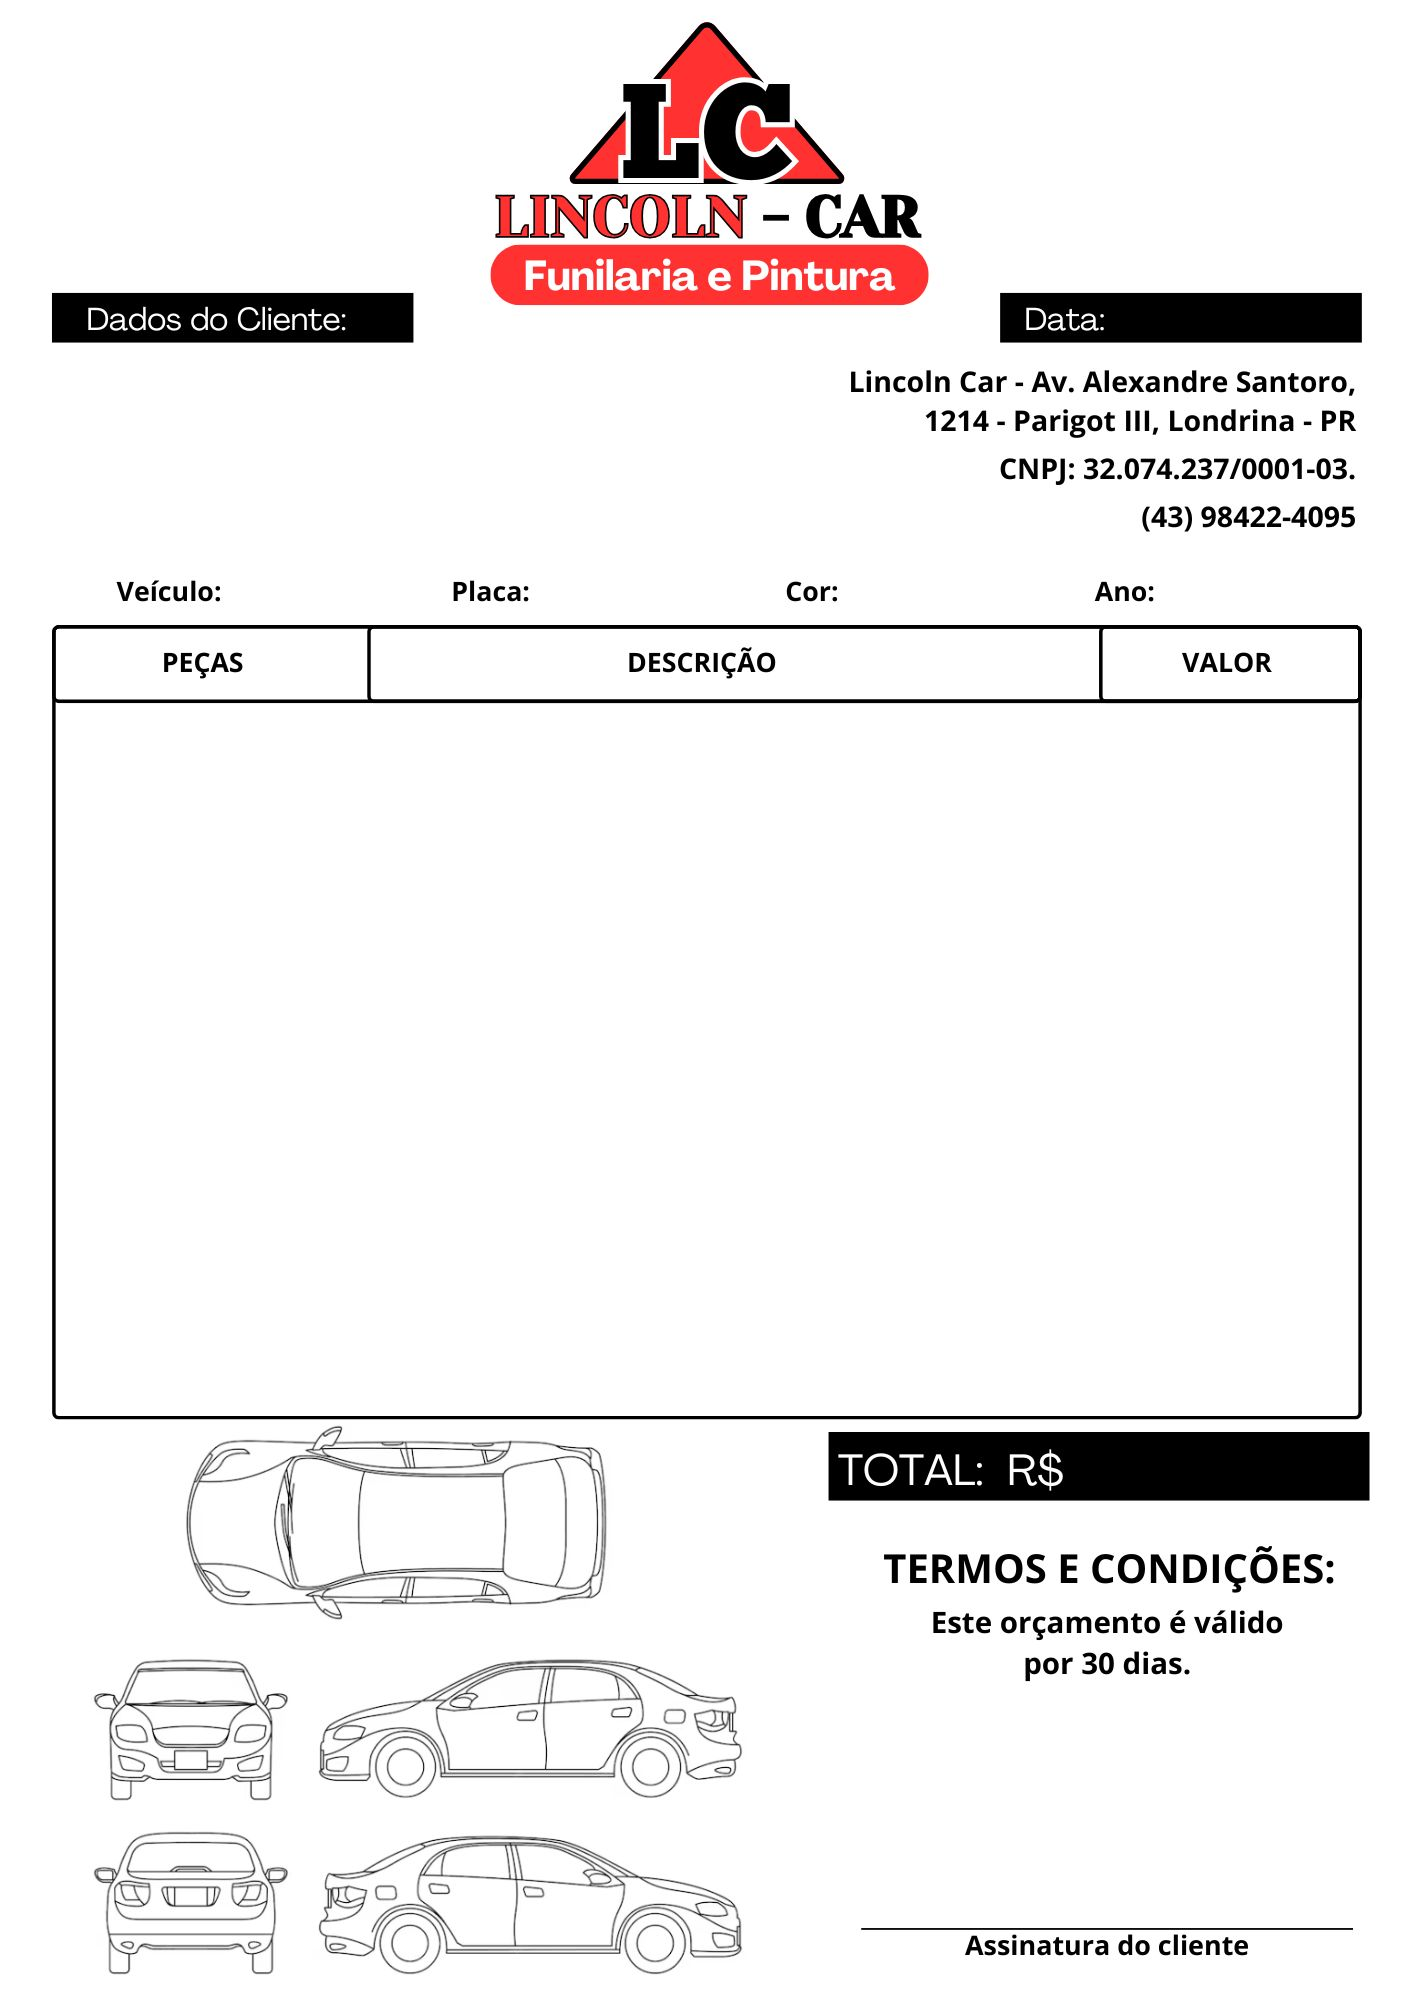
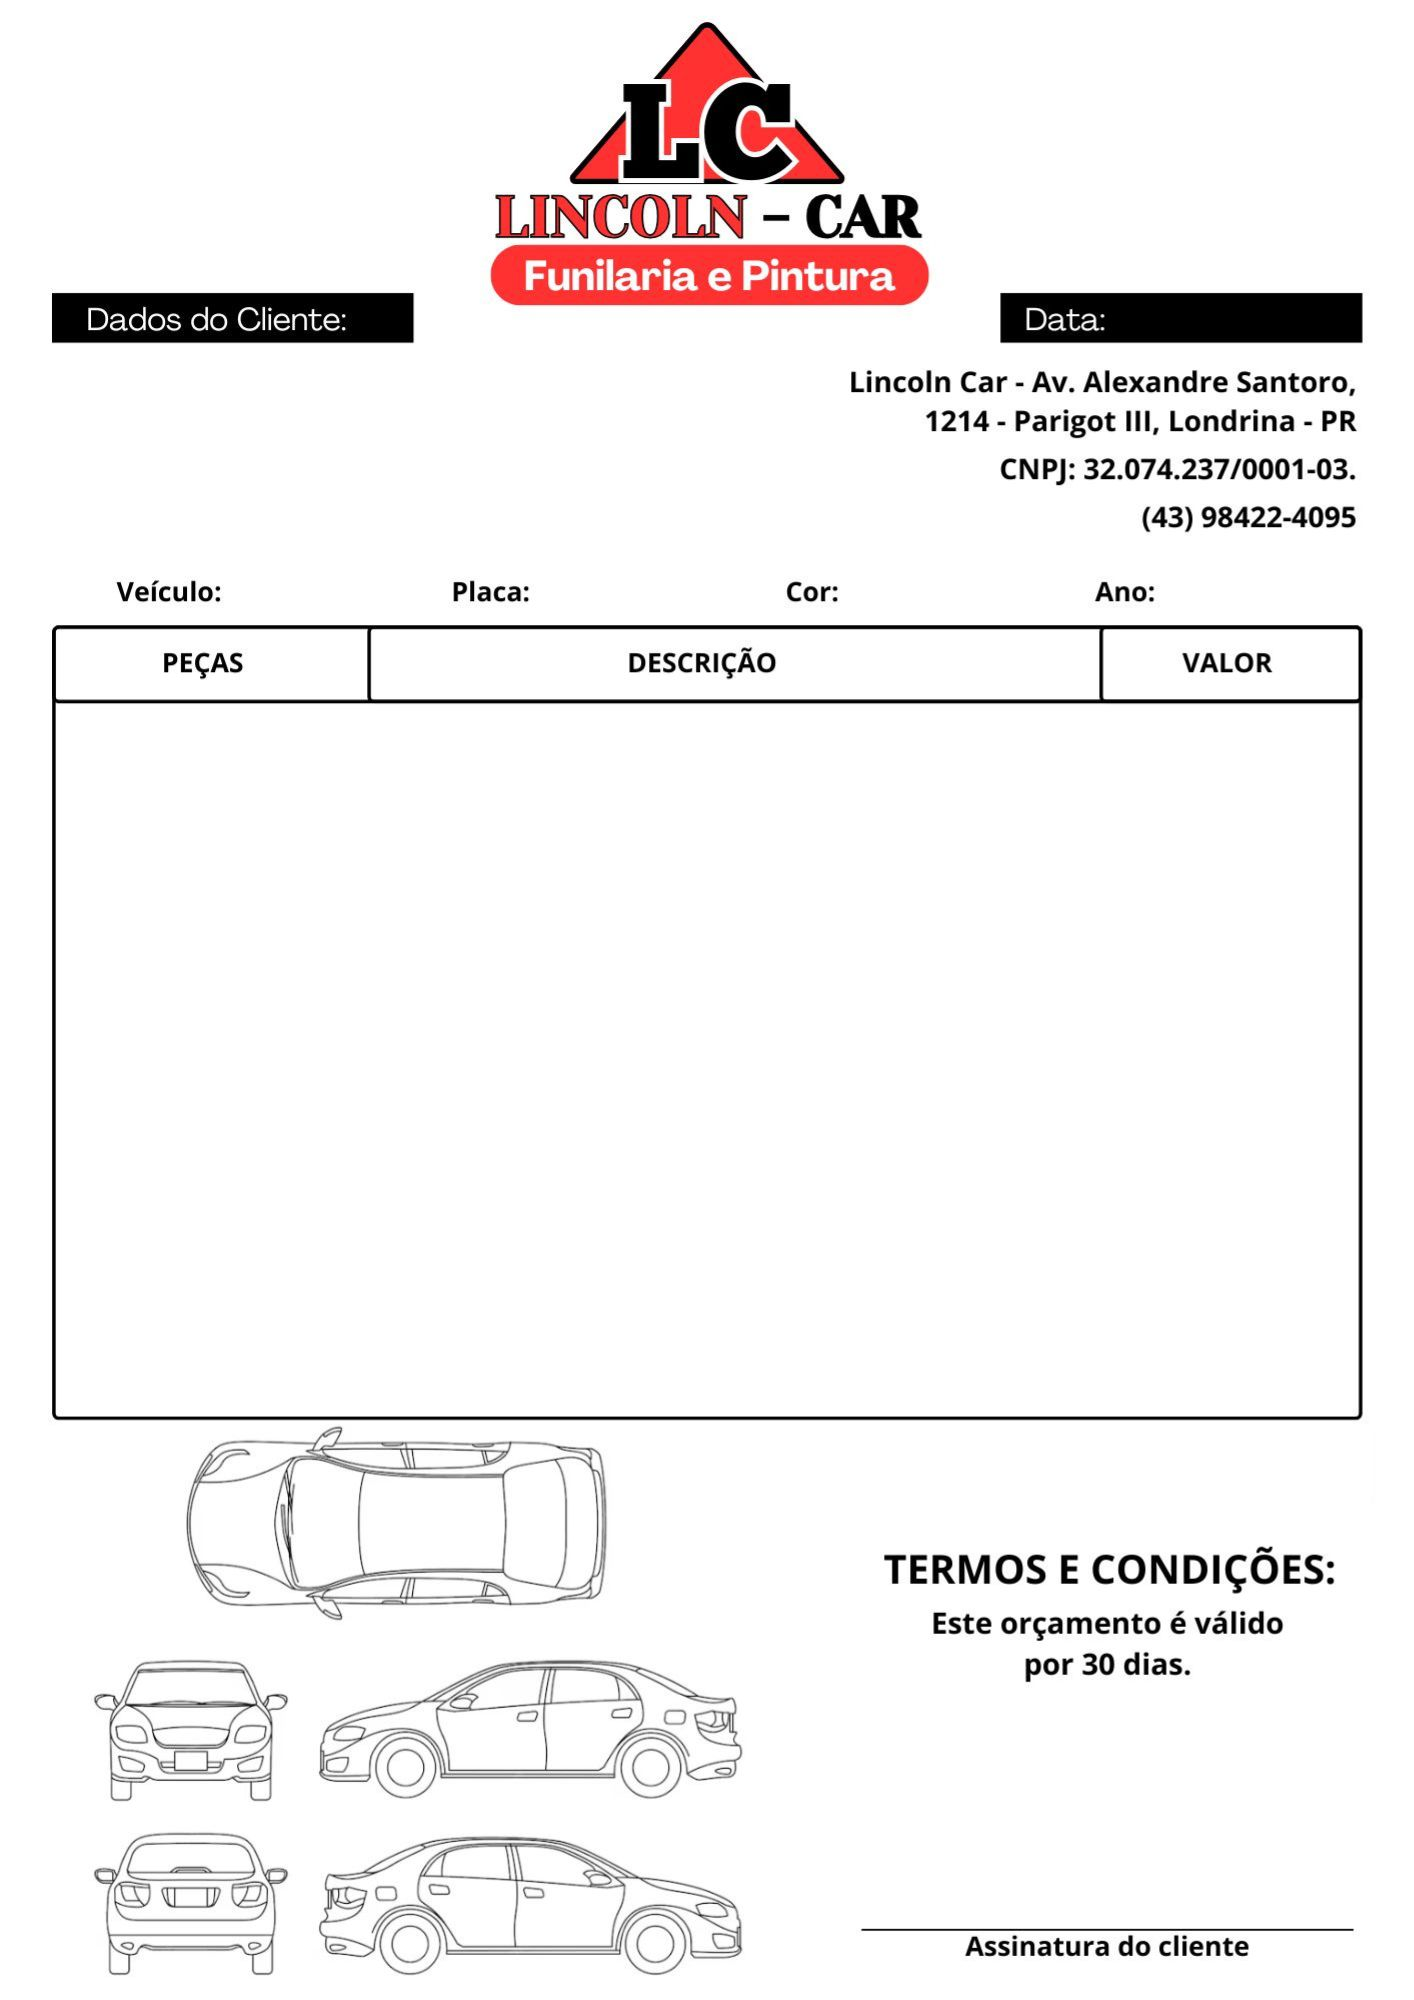
up

diff --git a/src/javascript/script.js b/src/javascript/script.js
@@ -1,131 +1,135 @@
 // Função para formatar o número de telefone
 function formatPhoneNumber(phoneNumber) {
-    // Remove todos os caracteres que não sejam números
-    const cleaned = ('' + phoneNumber).replace(/\D/g, '');
+  // Remove todos os caracteres que não sejam números
+  const cleaned = ("" + phoneNumber).replace(/\D/g, "");
 
-    // Verifica se o número tem o tamanho correto
-    const match = cleaned.match(/^(\d{2})(\d{5})(\d{4})$/);
+  // Verifica se o número tem o tamanho correto
+  const match = cleaned.match(/^(\d{2})(\d{5})(\d{4})$/);
 
-    // Se o número for válido, retorna no formato (99) 99999-9999
-    if (match) {
-        return `(${match[1]}) ${match[2]}-${match[3]}`;
-    }
+  // Se o número for válido, retorna no formato (99) 99999-9999
+  if (match) {
+    return `(${match[1]}) ${match[2]}-${match[3]}`;
+  }
 
-    // Retorna o número original se a formatação falhar
-    return phoneNumber;
+  // Retorna o número original se a formatação falhar
+  return phoneNumber;
 }
 
 // Função para atualizar o total
 function atualizarTotal() {
-    let total = 0;
-    // Pegando todos os valores inseridos nos campos de preço
-    document.querySelectorAll("#board .item input[id='price']").forEach(function (input) {
-        const valor = parseFloat(input.value) || 0; // Caso o campo esteja vazio, considere 0
-        total += valor;
+  let total = 0;
+  // Pegando todos os valores inseridos nos campos de preço
+  document
+    .querySelectorAll("#board .item input[id='price']")
+    .forEach(function (input) {
+      const valor = parseFloat(input.value) || 0; // Caso o campo esteja vazio, considere 0
+      total += valor;
     });
-    // Exibir o total no HTML
-    document.getElementById('totalOrcamento').textContent = total.toFixed(2);
+  // Exibir o total no HTML
+  document.getElementById("totalOrcamento").textContent = total.toFixed(2);
 }
 
 // Função que cria item no Board
 document.getElementById("addItemBtn").addEventListener("click", function () {
-    // Substituindo o campo de descrição por um select com opções predefinidas
-    const select = document.createElement('select');
-    select.required = select.style.width = '20%';
+  // Substituindo o campo de descrição por um select com opções predefinidas
+  const select = document.createElement("select");
+  select.required = select.style.width = "20%";
 
-    // Tipos de Peças
-    const options = [
-        { label: "Teto" },
-        { label: "Capô" },
-        { label: "Tampa Traseira" },
-        { label: "Para-Choque D." },
-        { label: "Para-Choque T." },
-        { label: "Para-lama E" },
-        { label: "Para-lama D" },
-        { label: "Porta E" },
-        { label: "Porta D" },
-        { label: "Porta Traseira E." },
-        { label: "Porta Traseira D." },
-        { label: "Torpedo E" },
-        { label: "Torpedo D" },
-        { label: "Caixa de Ar E" },
-        { label: "Caixa de Ar D" },
-        { label: "Lateral E" },
-        { label: "Lateral D" },
-        { label: "Soleira E" },
-        { label: "Soleira D" },
-        { label: "Painel D" },
-        { label: "Painel Interno D" },
-        { label: "Painel T" },
-        { label: "Painel Interno T" },
-        { label: "Peças" }
-    ];
+  // Tipos de Peças
+  const options = [
+    { label: "Teto" },
+    { label: "Capô" },
+    { label: "Tampa Traseira" },
+    { label: "Para-Choque D." },
+    { label: "Para-Choque T." },
+    { label: "Para-lama E" },
+    { label: "Para-lama D" },
+    { label: "Porta E" },
+    { label: "Porta D" },
+    { label: "Porta Traseira E." },
+    { label: "Porta Traseira D." },
+    { label: "Torpedo E" },
+    { label: "Torpedo D" },
+    { label: "Caixa de Ar E" },
+    { label: "Caixa de Ar D" },
+    { label: "Lateral E" },
+    { label: "Lateral D" },
+    { label: "Soleira E" },
+    { label: "Soleira D" },
+    { label: "Painel D" },
+    { label: "Painel Interno D" },
+    { label: "Painel T" },
+    { label: "Painel Interno T" },
+    { label: "Peças" },
+  ];
 
-    options.forEach(opt => {
-        const optionElement = document.createElement('option');
-        optionElement.value = opt.value;
-        optionElement.text = opt.label;
-        select.appendChild(optionElement);
-    });
+  options.forEach((opt) => {
+    const optionElement = document.createElement("option");
+    optionElement.value = opt.value;
+    optionElement.text = opt.label;
+    select.appendChild(optionElement);
+  });
 
-    const item = document.createElement('div');
-    item.classList.add('item');
-    
-    // Ícone de arraste
-    const dragIcon = document.createElement('span');
-    dragIcon.classList.add('drag-icon');
-    dragIcon.innerHTML = '&#8597;'; // Ícone de arraste
+  const item = document.createElement("div");
+  item.classList.add("item");
 
-    const desc = document.createElement('input');
-    desc.type = 'text';
-    desc.placeholder = 'Descrição';
-    desc.required = true;
-    desc.style.width = '60%';
-    desc.setAttribute('id', 'descricao');
+  // Ícone de arraste
+  const dragIcon = document.createElement("span");
+  dragIcon.classList.add("drag-icon");
+  dragIcon.innerHTML = "&#8597;"; // Ícone de arraste
 
-    // Responsividade
-    if (window.innerWidth <= 768) {
-        desc.style.width = '50%';
-    }
+  const desc = document.createElement("input");
+  desc.type = "text";
+  desc.placeholder = "Descrição";
+  desc.required = true;
+  desc.style.width = "60%";
+  desc.setAttribute("id", "descricao");
 
-    // Exibir o preço automaticamente baseado na opção selecionada
-    const valor = document.createElement('input');
-    valor.type = 'number';
-    valor.placeholder = 'Valor';
-    valor.required = true;
-    valor.style.width = '15%';
-    valor.setAttribute('id', 'price');
-    valor.step = '0.01';
+  // Responsividade
+  if (window.innerWidth <= 768) {
+    desc.style.width = "50%";
+  }
 
-    valor.addEventListener('input', atualizarTotal); // Atualiza o total em tempo real
+  // Exibir o preço automaticamente baseado na opção selecionada
+  const valor = document.createElement("input");
+  valor.type = "number";
+  valor.placeholder = "Valor";
+  valor.required = true;
+  valor.style.width = "15%";
+  valor.setAttribute("id", "price");
+  valor.step = "0.01";
 
-    const removeBtn = document.createElement('button');
-    removeBtn.classList.add('removeBtn');
-    removeBtn.textContent = 'x';
-    removeBtn.addEventListener('click', function () {
-        item.remove();
-        atualizarTotal(); // Atualiza o total ao remover o item
-    });
+  valor.addEventListener("input", atualizarTotal); // Atualiza o total em tempo real
 
-    item.appendChild(dragIcon);
-    item.appendChild(select);
-    item.appendChild(desc);
-    item.appendChild(valor);
-    item.appendChild(removeBtn);
+  const removeBtn = document.createElement("button");
+  removeBtn.classList.add("removeBtn");
+  removeBtn.textContent = "x";
+  removeBtn.addEventListener("click", function () {
+    item.remove();
+    atualizarTotal(); // Atualiza o total ao remover o item
+  });
 
-    document.getElementById('board').appendChild(item);
+  item.appendChild(dragIcon);
+  item.appendChild(select);
+  item.appendChild(desc);
+  item.appendChild(valor);
+  item.appendChild(removeBtn);
 
-    atualizarTotal(); // Atualiza o total após adicionar um novo item
+  document.getElementById("board").appendChild(item);
+
+  atualizarTotal(); // Atualiza o total após adicionar um novo item
 });
 
 // Tornar o board de itens arrastável
-new Sortable(document.getElementById('board'), {
-    handle: '.drag-icon', // Define o ícone de arraste como o manipulador
-    animation: 150, // Animação suave ao arrastar
+new Sortable(document.getElementById("board"), {
+  handle: ".drag-icon", // Define o ícone de arraste como o manipulador
+  animation: 150, // Animação suave ao arrastar
 });
 
 // Função principal do formulário
-document.getElementById("orcamentoForm").addEventListener("submit", function (event) {
+document
+  .getElementById("orcamentoForm")
+  .addEventListener("submit", function (event) {
     event.preventDefault();
 
     // Pegando os inputs
@@ -138,66 +142,106 @@ document.getElementById("orcamentoForm").addEventListener("submit", function (ev
     const cor = document.getElementById("cor").value;
     const ano_v = document.getElementById("ano").value;
     const data = document.getElementById("data").value;
-    const [ano, mes, dia] = data.split('-');
+    const [ano, mes, dia] = data.split("-");
     const datebr = `${dia}/${mes}/${ano}`;
 
     let totalOrcamento = 0;
     // Pegando valores do input do board
     const items = [];
     document.querySelectorAll("#board .item").forEach(function (itemDiv) {
-        const peca = itemDiv.querySelector("select").selectedOptions[0].text;
-        const descricao = itemDiv.querySelector("input[id='descricao']").value;
-        const price = parseFloat(itemDiv.querySelector("input[id='price']").value);
-        items.push({ peca, descricao, price });
-        totalOrcamento += price;
+      const peca = itemDiv.querySelector("select").selectedOptions[0].text;
+      const descricao = itemDiv.querySelector("input[id='descricao']").value;
+      const price = parseFloat(
+        itemDiv.querySelector("input[id='price']").value
+      );
+      items.push({ peca, descricao, price });
+      totalOrcamento += price;
     });
 
     const { jsPDF } = window.jspdf;
     const doc = new jsPDF();
 
-    // Criando o template padrão
+    // Template principal
     const img = new Image();
     img.src = "/src/img/template.jpg";
 
-    // Desenhando em cima do template
+    // Template de continuação
+    const imgContinuation = new Image();
+    imgContinuation.src = "/src/img/continue.jpg";
+
+    // Desenhando em cima do template principal
     img.onload = function () {
-        doc.addImage(img, 'JPG', 0, 0, doc.internal.pageSize.width, doc.internal.pageSize.height);
+      doc.addImage(
+        img,
+        "JPG",
+        0,
+        0,
+        doc.internal.pageSize.width,
+        doc.internal.pageSize.height
+      );
 
-        doc.setFont("Helvetica");
+      doc.setFont("Helvetica");
+      doc.setFontSize(12);
+
+      // Dados do Cliente
+      doc.text(8, 60, nome);
+      doc.text(8, 67, endereco);
+      doc.text(8, 74, telefoneFormatado);
+      // Dados do Veículo
+      doc.text(35, 89, veiculo);
+      doc.text(81, 89, placa);
+      doc.text(128, 89, cor);
+      doc.text(173, 89, ano_v);
+
+      // DATA
+      doc.setFontSize(14);
+      doc.setTextColor(255, 255, 255);
+      doc.setFont("Helvetica", "bold");
+      doc.text(165, 49, datebr);
+
+      let ypos = 110;
+      let linesCount = 0;
+
+      items.forEach((item, index) => {
+        if (linesCount >= 15) {
+          // Adiciona nova página com o template de continuação
+          doc.addPage();
+          doc.addImage(
+            imgContinuation,
+            "JPG",
+            0,
+            0,
+            doc.internal.pageSize.width,
+            doc.internal.pageSize.height
+          );
+          ypos = 40; // Começar em uma nova posição na página de continuação
+          linesCount = 0; // Reinicia a contagem de linhas para a nova página
+        }
+
         doc.setFontSize(12);
+        doc.setFont("Helvetica");
+        doc.setTextColor(0, 0, 0);
+        doc.text(13, ypos, item.peca);
+        doc.text(57, ypos, item.descricao);
+        doc.text(175, ypos, item.price.toString());
+        ypos += 7;
+        linesCount++;
+      });
 
-        // Dados do Cliente
-        doc.text(8, 60, nome);
-        doc.text(8, 67, endereco);
-        doc.text(8, 74, telefoneFormatado);
-        // Dados do Veículo
-        doc.text(35, 89, veiculo);
-        doc.text(81, 89, placa);
-        doc.text(128, 89, cor);
-        doc.text(173, 89, ano_v);
-
-        // DATA
-        doc.setFontSize(14);
-        doc.setTextColor(255, 255, 255);
-        doc.setFont("Helvetica", "bold");
-        doc.text(165, 49, datebr);
-
-        let ypos = 110;
-        items.forEach(item => {
-            doc.setFontSize(12);
-            doc.setFont("Helvetica");
-            doc.setTextColor(0, 0, 0);
-            doc.text(13, ypos, item.peca);
-            doc.text(57, ypos, item.descricao);
-            doc.text(175, ypos, item.price.toString());
-            ypos += 7;
-        });
-
-        // Adicionando o valor total de todos os itens do orçamento
-        doc.setTextColor(255, 255, 255);
-        doc.setFontSize(14);
-        doc.text(160, 220, totalOrcamento.toString());
-
-        doc.save(`Orcamento_${nome} ${data}.pdf`);
+      // Adicionando o valor total de todos os itens do orçamento apenas na primeira página
+      if (items.length > 0) {
+        //Pegando numero de paginas
+        const paginas = doc.getNumberOfPages();
+        if (paginas > 1) {
+          doc.setTextColor(0, 0, 0);
+          doc.setFontSize(20);
+          doc.text(140, 280, "TOTAL: R$" + totalOrcamento.toString());
+        } else {
+          doc.setTextColor(0, 0, 0);
+          doc.setFontSize(20);
+          doc.text(140, 220, "TOTAL: R$" + totalOrcamento.toString());
+        }
+      }
+      doc.save(`Orcamento_${nome} ${data}.pdf`);
     };
-});
+  });
